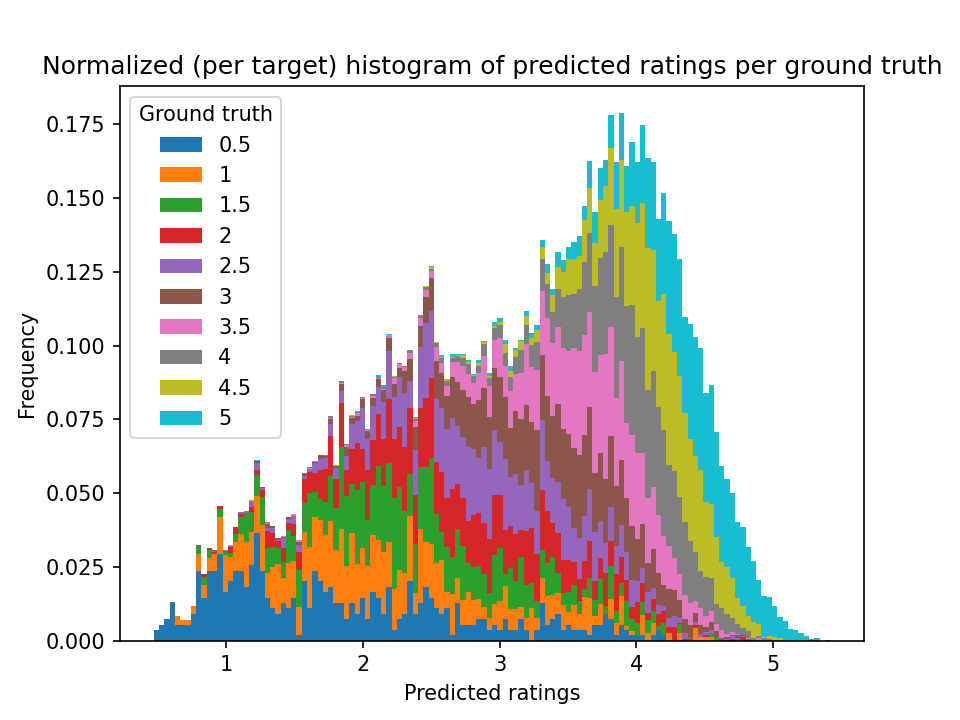
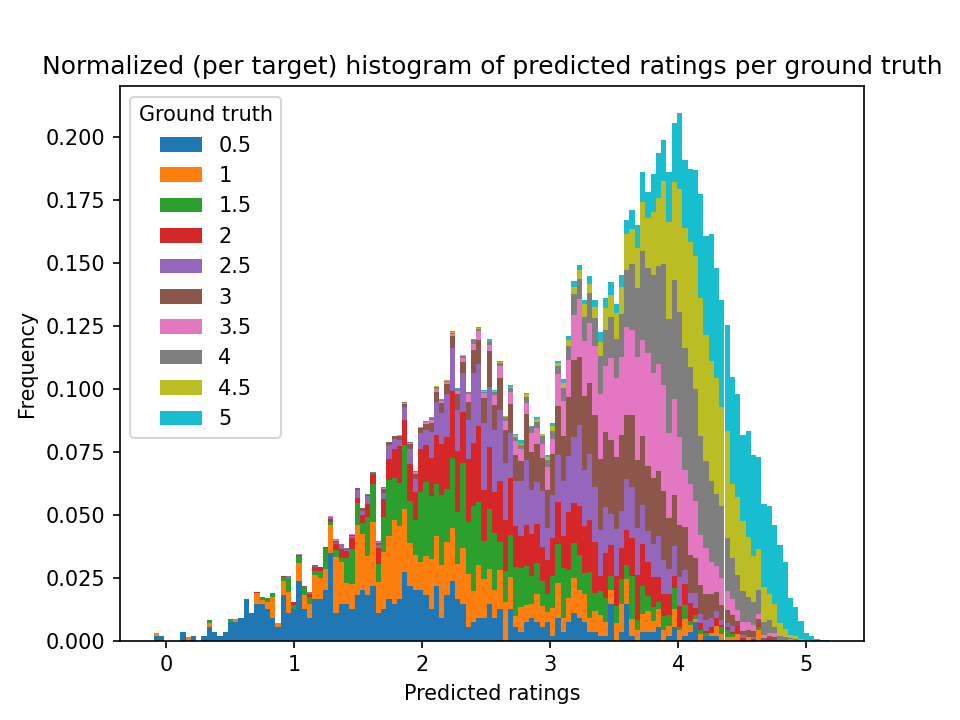
Tried Multi-modal attention instead of concatenation of item and user vectors in MLP Potatoe Potato, it didn't really improve performance for Basic NCF ...

diff --git a/src/neural_collaborative_filtering/models/BasicMultimodalAttNCF.py b/src/neural_collaborative_filtering/models/BasicMultimodalAttNCF.py
@@ -1,0 +1,78 @@
+from math import sqrt
+
+import torch
+from torch import nn
+import torch.nn.functional as F
+
+from neural_collaborative_filtering.datasets.fixed_dataset import FixedDataset
+from neural_collaborative_filtering.models.NCF import NCF
+from neural_collaborative_filtering.util import build_MLP_layers
+
+
+class BasicMultimodalAttNCF(NCF):
+    def __init__(self, item_dim, user_dim, dropout_rate=0.2,
+                 item_emb=256, user_emb=256, att_dense=128,
+                 num_heads=1, mlp_dense_layers=None):
+        super(BasicMultimodalAttNCF, self).__init__()
+        if mlp_dense_layers is None:
+            mlp_dense_layers = [256, 128]
+        # save the (hyper) parameters needed to construct this object when saving model
+        self.kwargs = {'item_dim': item_dim, 'user_dim': user_dim,
+                       'item_emb': item_emb, 'user_emb': user_emb,
+                       'att_dense': att_dense, 'num_heads': num_heads,
+                       'mlp_dense_layers': mlp_dense_layers}
+        self.item_embeddings = nn.Sequential(
+            nn.Linear(item_dim, item_emb),
+            nn.LeakyReLU()
+        )
+        self.user_embeddings = nn.Sequential(
+            nn.Linear(user_dim, user_emb),
+            nn.LeakyReLU()
+        )
+
+        self.W_query = nn.Linear(item_emb, att_dense)
+        self.W_key = nn.Linear(user_emb, att_dense)
+        self.W_value = nn.Linear(user_emb, att_dense)
+        self.MultiHeadAttLayer = nn.MultiheadAttention(1, num_heads=num_heads, batch_first=True)   # TODO: dropout?
+
+        self.W_query2 = nn.Linear(user_emb, att_dense)
+        self.W_key2 = nn.Linear(item_emb, att_dense)
+        self.W_value2 = nn.Linear(item_emb, att_dense)
+        self.MultiHeadAttLayer2 = nn.MultiheadAttention(1, num_heads=num_heads, batch_first=True)  # TODO: dropout?
+
+        # Build MLP according to params
+        self.MLP = build_MLP_layers(2 * att_dense, mlp_dense_layers, dropout_rate=dropout_rate)
+
+    def forward(self, X_item, X_user):
+        item_emb = self.item_embeddings(X_item)
+        user_emb = self.user_embeddings(X_user)
+
+        # item --> user attention
+        Q1 = torch.unsqueeze(self.W_query(item_emb), 2)
+        K1 = torch.unsqueeze(self.W_key(user_emb), 2)
+        V1 = torch.unsqueeze(self.W_value(user_emb), 2)
+        att_emb1, att_weights1 = self.MultiHeadAttLayer(Q1, K1, V1)
+        att_emb1 = torch.squeeze(att_emb1, 2)
+
+        # user --> item attention
+        Q2 = torch.unsqueeze(self.W_query2(user_emb), 2)
+        K2 = torch.unsqueeze(self.W_key2(item_emb), 2)
+        V2 = torch.unsqueeze(self.W_value2(item_emb), 2)
+        att_emb2, att_weights2 = self.MultiHeadAttLayer(Q2, K2, V2)
+        att_emb2 = torch.squeeze(att_emb2, 2)
+
+        # TODO: Wait does this attend between batch items??
+        # A = F.softmax(torch.matmul(Q, K.T) / sqrt(self.att_dense), dim=1)  # TODO: dim???
+        # att_emb = torch.matmul(A, V)
+
+        combined = torch.cat((att_emb1, att_emb2), dim=1)
+
+        out = self.MLP(combined)
+
+        return out
+
+    def get_model_parameters(self) -> dict[str]:
+        return self.kwargs
+
+    def is_dataset_compatible(self, dataset_class):
+        return issubclass(dataset_class, FixedDataset)

diff --git a/src/train.py b/src/train.py
@@ -8,6 +8,7 @@ from globals import train_set_file, val_set_file, weight_decay, lr, batch_size, 
 from datasets.dynamic_movieLens_dataset import DynamicMovieLensDataset
 from datasets.one_hot_dataset import OneHotMovieLensDataset
 from neural_collaborative_filtering.models.AttentionNCF import AttentionNCF
+from neural_collaborative_filtering.models.BasicMultimodalAttNCF import BasicMultimodalAttNCF
 from neural_collaborative_filtering.models.BasicNCF import BasicNCF
 from neural_collaborative_filtering.train_ncf import train_model
 
@@ -33,8 +34,8 @@ if __name__ == '__main__':
         # model = AdvancedNCF(item_dim, item_emb=256, user_emb=256, mlp_dense_layers=[512, 256, 128], dropout_rate=dropout_rate)
     else:
         dataset_class = OneHotMovieLensDataset
-        model = BasicNCF(item_dim=dataset_class.get_number_of_items(),
-                         user_dim=dataset_class.get_number_of_users())
+        model = BasicMultimodalAttNCF(item_dim=dataset_class.get_number_of_items(),
+                                      user_dim=dataset_class.get_number_of_users())
     print(model)
 
     # log training for later?

diff --git a/src/evaluate.py b/src/evaluate.py
@@ -5,6 +5,7 @@ from datasets.one_hot_dataset import OneHotMovieLensDataset
 from globals import test_set_file, val_batch_size, USE_FEATURES
 from neural_collaborative_filtering.evaluate_ncf import eval_model
 from neural_collaborative_filtering.models.AttentionNCF import AttentionNCF
+from neural_collaborative_filtering.models.BasicMultimodalAttNCF import BasicMultimodalAttNCF
 from neural_collaborative_filtering.models.BasicNCF import BasicNCF
 from neural_collaborative_filtering.models.NCF import load_model
 
@@ -32,8 +33,8 @@ if __name__ == '__main__':
 
         # model = load_model(model_file, BasicNCF)
         state, _ = torch.load(model_file)
-        model = BasicNCF(item_dim=dataset_class.get_number_of_items(),
-                         user_dim=dataset_class.get_number_of_users())
+        model = BasicMultimodalAttNCF(item_dim=dataset_class.get_number_of_items(),
+                                      user_dim=dataset_class.get_number_of_users())
         model.load_state_dict(state)
 
         # make sure these are false
